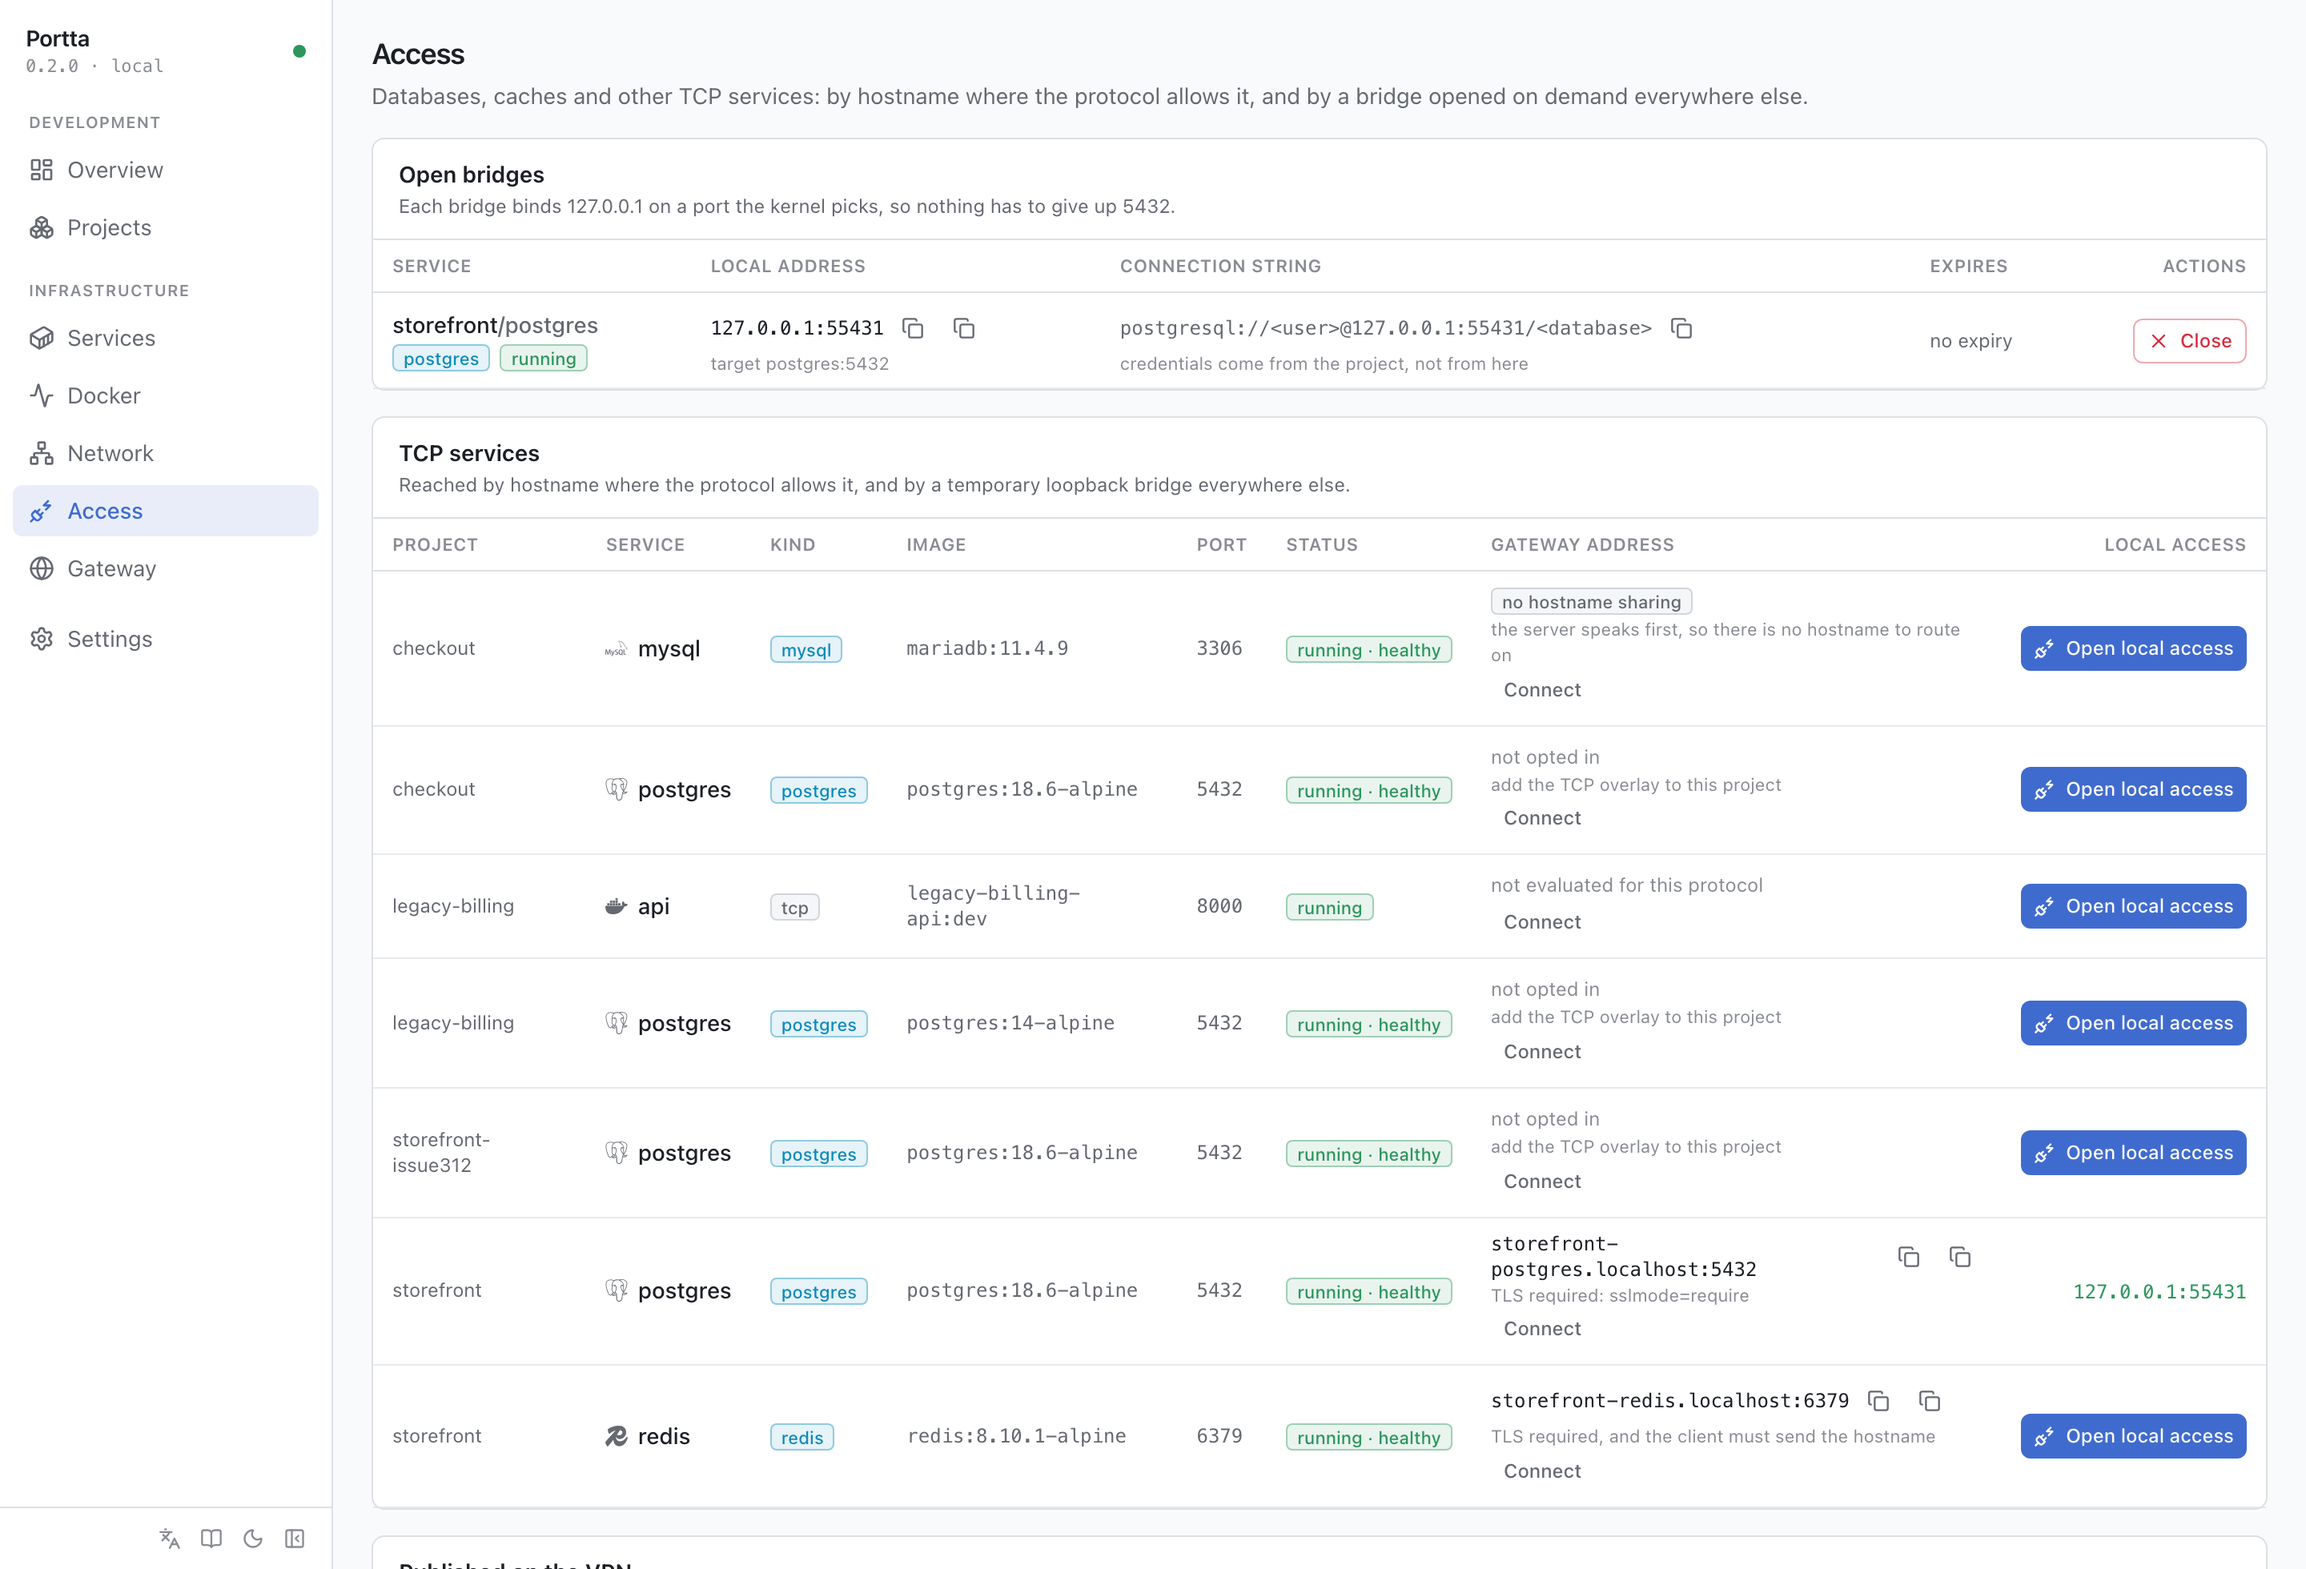
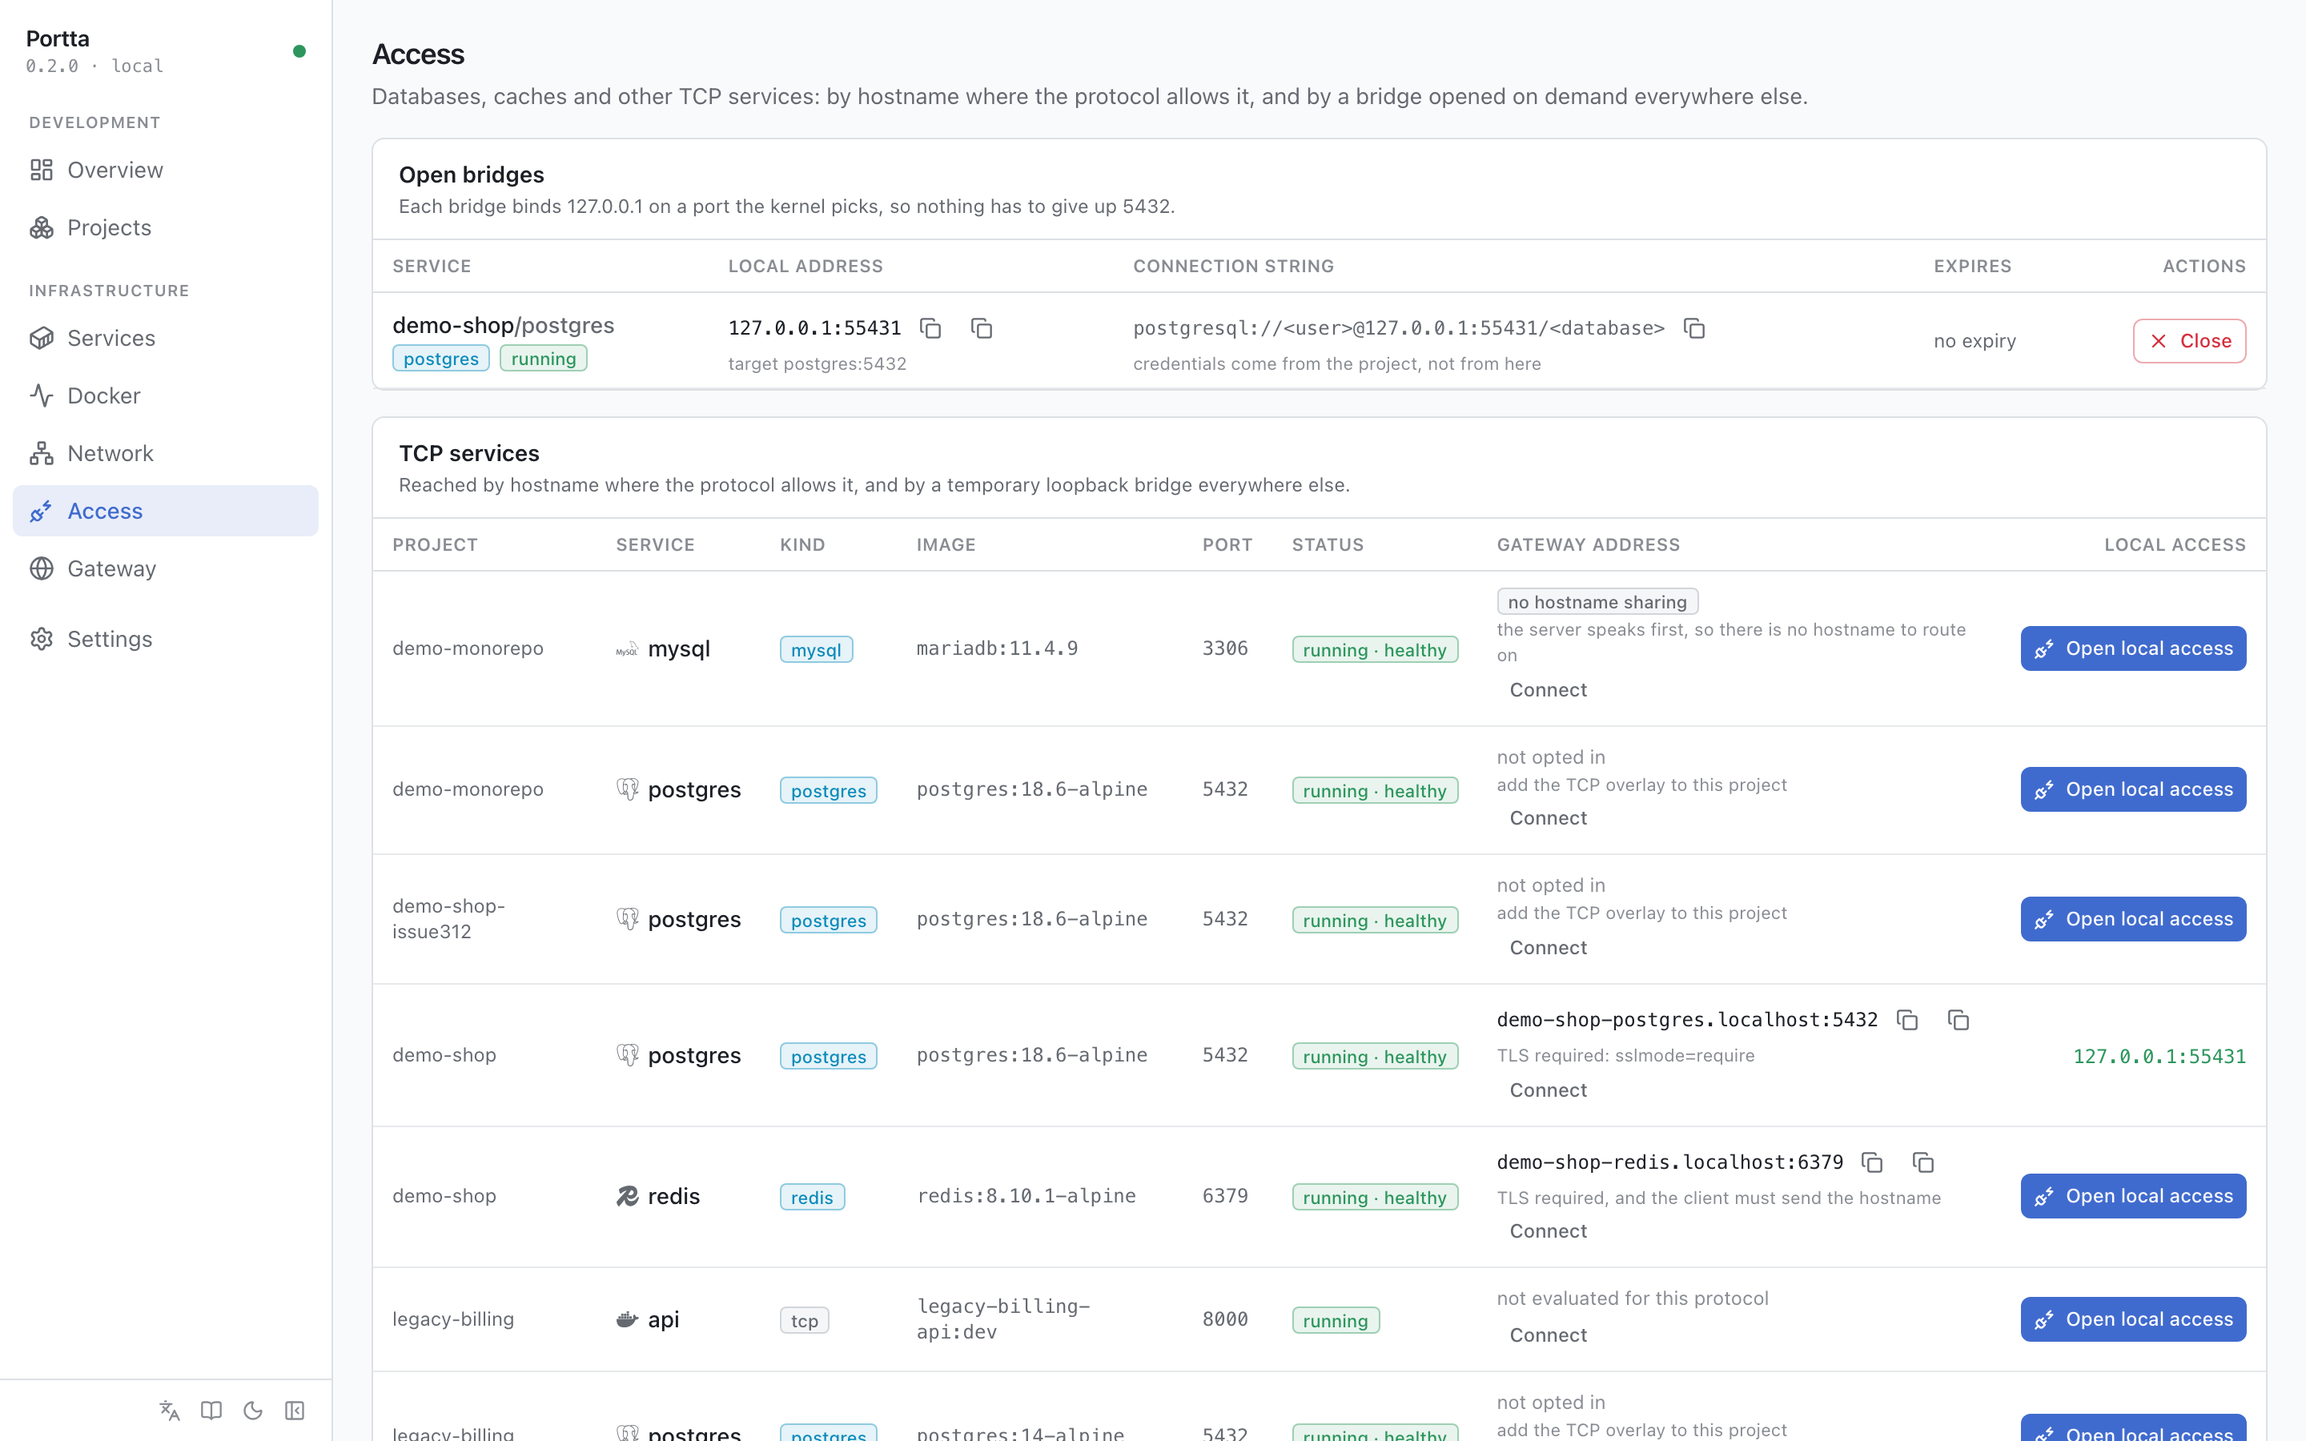
docs: regenerate panel screenshots from the example projects

diff --git a/README.md b/README.md
@@ -40,20 +40,20 @@ It is host infrastructure installed once, not a parent Compose project. It does 
 
 <table>
   <tr>
-    <td width="50%"><a href="docs/images/panel-overview.png"><img src="docs/images/panel-overview.png" alt="Overview showing the work in progress, sessions, what needs attention, projects, recent code and the host"></a><br><sub><b>Overview</b> — what is being worked on, and whether the host has room</sub></td>
-    <td width="50%"><a href="docs/images/panel-projects.png"><img src="docs/images/panel-projects.png" alt="Projects grouped with their services, health, uptime and endpoints"></a><br><sub><b>Projects</b> — Compose projects, databases included</sub></td>
+    <td width="50%"><a href="docs/images/panel-overview.png"><img src="docs/images/panel-overview.png" alt="Overview showing the work in progress, sessions, what needs attention and the example projects"></a><br><sub><b>Overview</b> — what is being worked on, and whether the host has room</sub></td>
+    <td width="50%"><a href="docs/images/panel-projects.png"><img src="docs/images/panel-projects.png" alt="Projects as products: Demo Shop, Demo A and Demo Monorepo with their tasks and environments"></a><br><sub><b>Projects</b> — the product, not the Compose stack</sub></td>
+  </tr>
+  <tr>
+    <td width="50%"><a href="docs/images/panel-tasks.png"><img src="docs/images/panel-tasks.png" alt="Demo Shop task board with backlog, to do, in progress and blocked columns"></a><br><sub><b>Tasks</b> — the local board for Demo Shop</sub></td>
+    <td width="50%"><a href="docs/images/panel-environments.png"><img src="docs/images/panel-environments.png" alt="Environments as Compose stacks running for those projects"></a><br><sub><b>Environments</b> — one Compose stack per namespace</sub></td>
   </tr>
   <tr>
     <td width="50%"><a href="docs/images/panel-services.png"><img src="docs/images/panel-services.png" alt="Services with state, technology, addresses and lifecycle actions"></a><br><sub><b>Services</b> — every routed and private service</sub></td>
-    <td width="50%"><a href="docs/images/panel-docker.png"><img src="docs/images/panel-docker.png" alt="Docker inventory separating integrated, gateway-owned and external containers"></a><br><sub><b>Docker</b> — the whole host, ownership made explicit</sub></td>
-  </tr>
-  <tr>
-    <td width="50%"><a href="docs/images/panel-access.png"><img src="docs/images/panel-access.png" alt="Private TCP services and a temporary loopback database bridge"></a><br><sub><b>Access</b> — databases without published ports</sub></td>
     <td width="50%"><a href="docs/images/panel-overview-dark.png"><img src="docs/images/panel-overview-dark.png" alt="Overview page using the dark colour theme"></a><br><sub><b>Dark theme</b> — the same live overview</sub></td>
   </tr>
 </table>
 
-The panel is optional and loopback-only by default. Run `portta web up`, then open <http://127.0.0.1:8081>. The complete walkthrough and all ten images are in [the panel documentation](docs/web-ui.md).
+The panel is optional and loopback-only by default. Run `portta web up`, then open <http://127.0.0.1:8081>. The complete walkthrough and every screenshot are in [the panel documentation](docs/web-ui.md).
 
 ## How it works
 

diff --git a/docs/web-ui.md b/docs/web-ui.md
@@ -20,8 +20,9 @@ It is off by default.
 ![The Overview page: the work in progress, the active sessions, what needs attention, each project at a glance, recent code and the host's room](images/panel-overview.png)
 
 Every screenshot on this page comes from the same host, described in
-`apps/web/e2e/demo-host.mjs` and rendered by the real panel. Regenerate them with
-`npm run screenshots` (see [Development](#development-with-hot-reloading)).
+`apps/web/e2e/demo-host.mjs`, seeded with `docker/examples`, and rendered by
+the real panel at 1440×900. Regenerate them with `npm run screenshots` (see
+[Development](#development-with-hot-reloading)).
 
 ---
 
@@ -242,7 +243,9 @@ ForwardAuth service runs before either path is reached
 ### Regenerating the screenshots
 
 The images on this page and in the README are produced by the real panel, run
-against a fixed host described in `apps/web/e2e/demo-host.mjs`:
+against a fixed host described in `apps/web/e2e/demo-host.mjs` and a disposable
+PostgreSQL that imports `docker/examples/*/portta.example.json`. Every frame is
+1440×900 (`deviceScaleFactor` 2, so the files are 2880×1800):
 
 ```bash
 npm run screenshots --workspace=portta-web
@@ -398,6 +401,8 @@ below it, tabs that are URLs:
 | **Settings** | Name, description, place under Projects Home, archive, and delete — which removes what only Portta holds and names it |
 
 ### Tasks
+
+![The Demo Shop task board: backlog, to do, in progress and blocked, seeded from docker/examples](images/panel-tasks.png)
 
 A task is Portta's own: it exists without GitHub. `#/projects/<slug>/tasks` is
 the board — six columns, `Backlog`, `To do`, `In progress`, `Review`,
@@ -708,7 +713,7 @@ The **Gateway address** column is the other way in, when
 protocol cannot do it the column says so rather than leaving a blank, and where
 a project has not opted in it says that too.
 
-![The Access page: an open bridge to storefront/postgres on 127.0.0.1:55431 with its connection string, and the other TCP services each with an Open local access button](images/panel-access.png)
+![The Access page: an open bridge to demo-shop/postgres on 127.0.0.1:55431 with its connection string, and the other TCP services each with an Open local access button](images/panel-access.png)
 
 This page also lists persistent forwarders created with
 [`portta service publish --private`](tailscale-services.md).
